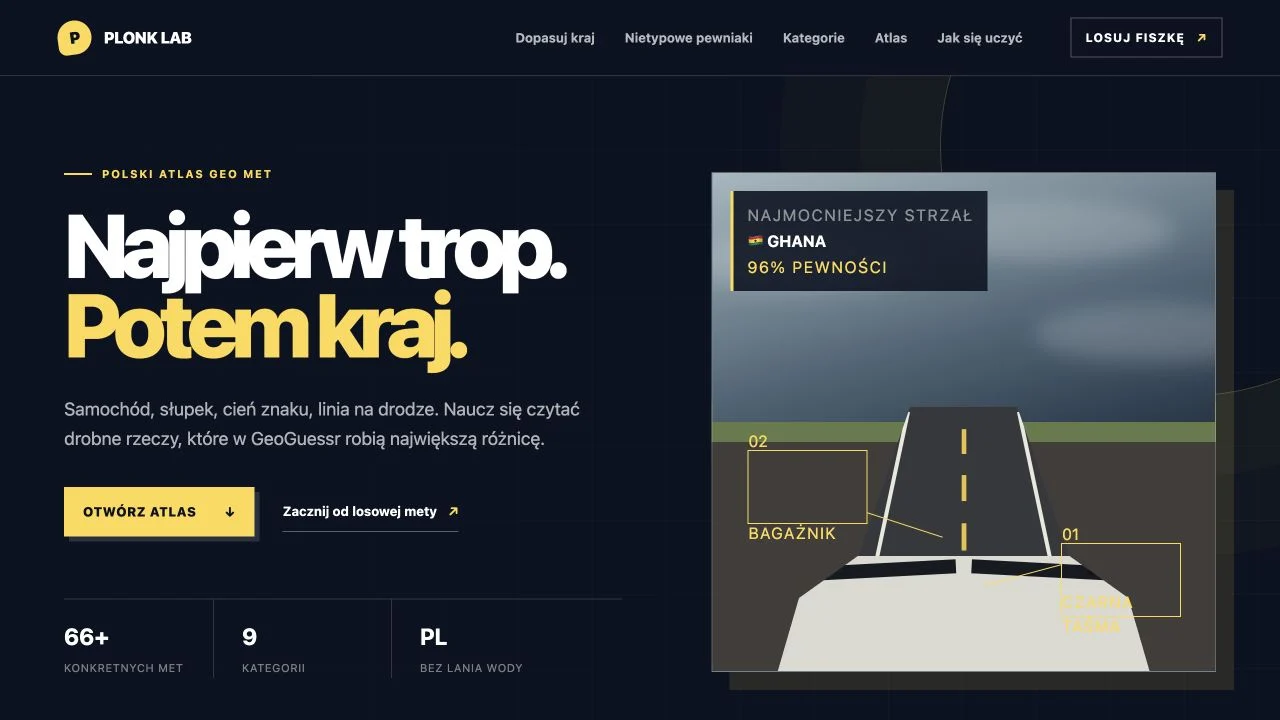
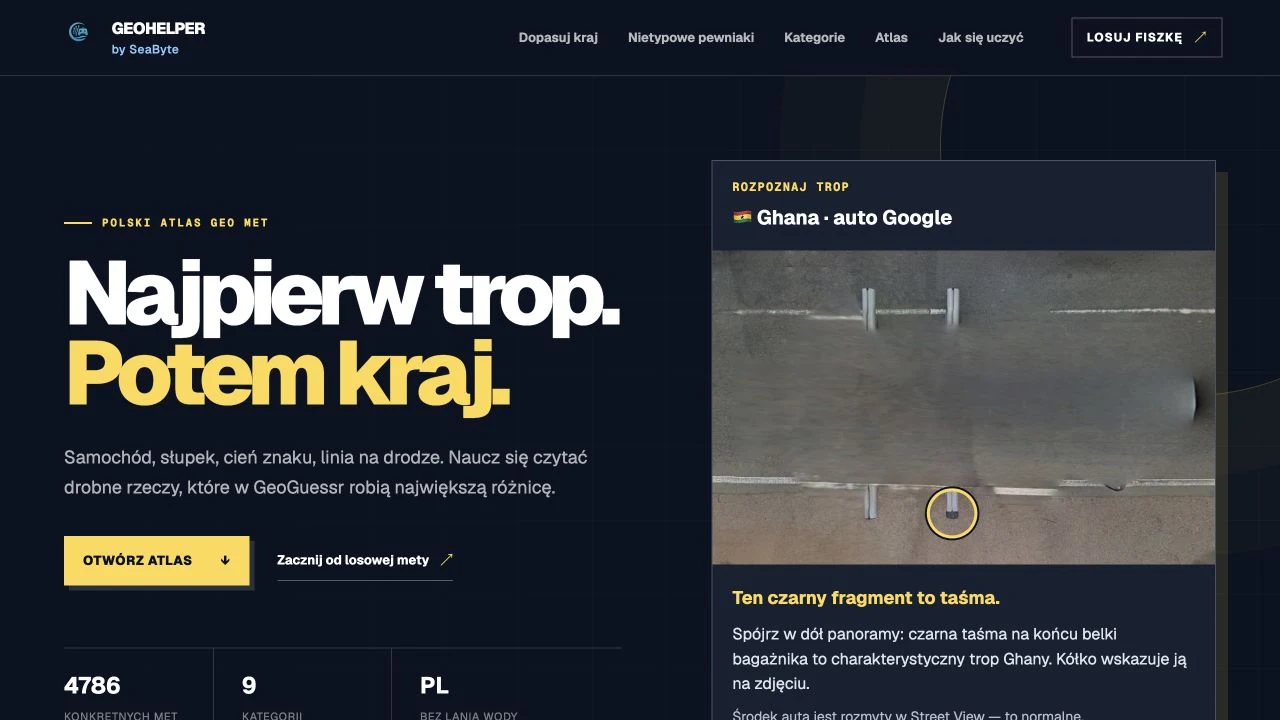
Refresh benches and GeoHelper screenshots and public link

diff --git a/app/project-showcase.tsx b/app/project-showcase.tsx
@@ -32,8 +32,8 @@ const projects = [
     featured: true,
     url: 'https://laweczki.sopot.pl/',
     domain: 'laweczki.sopot.pl',
-    screenshot: '/projects/sopockie-laweczki.webp',
-    alt: 'Sopockie Ławeczki — mapa Sopotu z lokalizacjami ławek i nawigacją aplikacji',
+    screenshot: '/projects/sopockie-laweczki.webp?v=20260928',
+    alt: 'Sopockie Ławeczki — strona główna z wyborem ławek i tras spacerowych',
     status: 'ONLINE',
     description:
       'Aplikacja zachęcająca do odkrywania Sopotu. Mapa ławek, spotkania i trasy spacerowe, uzupełnione panelem administracyjnym.',
@@ -54,14 +54,13 @@ const projects = [
   {
     name: 'Geo Helper',
     featured: false,
-    url: 'https://plonk-lab-geo-atlas.habina1993.chatgpt.site/',
-    domain: 'Geo Helper / atlas',
-    linkLabel: 'Otwórz prywatny podgląd',
-    screenshot: '/projects/geo-helper.webp',
-    alt: 'Geo Helper / Plonk Lab — strona atlasu wskazówek do GeoGuessr',
-    status: 'PRYWATNY PODGLĄD',
+    url: 'https://geohelper.seabyte.pl/',
+    domain: 'geohelper.seabyte.pl',
+    screenshot: '/projects/geo-helper.webp?v=20260928',
+    alt: 'SeaByte GeoHelper — atlas wskazówek do GeoGuessr z przykładem tropu z Ghany',
+    status: 'ONLINE',
     description:
-      'Atlas wskazówek do GeoGuessr: samochody, znaki, słupki, drogi i krajobrazy. Filtrowanie tropów pomaga rozpoznawać kraje. Podgląd wymaga uprawnień.',
+      'Atlas wskazówek do GeoGuessr: samochody, znaki, słupki, drogi i krajobrazy. Filtrowanie tropów pomaga rozpoznawać kraje.',
     tags: ['React', 'TypeScript', 'GeoGuessr', 'Edukacja'],
   },
   {

diff --git a/README.md b/README.md
@@ -47,7 +47,7 @@ GitHub Actions wykonuje te kontrole przy pushach na `main`, `codex/**` oraz w pu
 - `app/layout.tsx` — polskie metadane i lokalnie serwowane fonty.
 - `public/favicon.svg` — znak `ph.`.
 
-Opisy wykorzystują profil i repozytoria https://github.com/pawelhabina, stronę https://www.seabyte.pl/ oraz potwierdzony przez autora zakres ParsHub. Każdy projekt ma zrzut ekranu, link do strony i tagi. ParsHub jest projektem w rozwoju; zrzut przedstawia wyłącznie publiczny ekran logowania bez danych klientów. Wyróżnione: SeaByte, ParsHub, Sopockie Ławeczki i Fox Evolution. Pozostałe: Geo Helper i Gdynia 2126. Zrzuty dwóch ostatnich mogą pochodzić z lokalnego uruchomienia projektu; dostęp i docelowe linki są opisane w kafelkach. Realizacje Joomla dla profesjonalnestrony.eu zostaną dodane po wskazaniu adresów przez autora.
+Opisy wykorzystują profil i repozytoria https://github.com/pawelhabina, stronę https://www.seabyte.pl/ oraz potwierdzony przez autora zakres ParsHub. Każdy projekt ma zrzut ekranu, link do strony i tagi. ParsHub jest projektem w rozwoju; zrzut przedstawia wyłącznie publiczny ekran logowania bez danych klientów. Wyróżnione: SeaByte, ParsHub, Sopockie Ławeczki i Fox Evolution. Pozostałe: Geo Helper i Gdynia 2126. Screeny Sopockich Ławeczek i GeoHelper odświeżono 28.09.2026 z publicznych stron laweczki.sopot.pl i geohelper.seabyte.pl. Zrzut Gdyni 2126 pochodzi z lokalnego uruchomienia projektu; kafelek prowadzi do repozytorium. Realizacje Joomla dla profesjonalnestrony.eu zostaną dodane po wskazaniu adresów przez autora.
 
 ## Hosting
 
